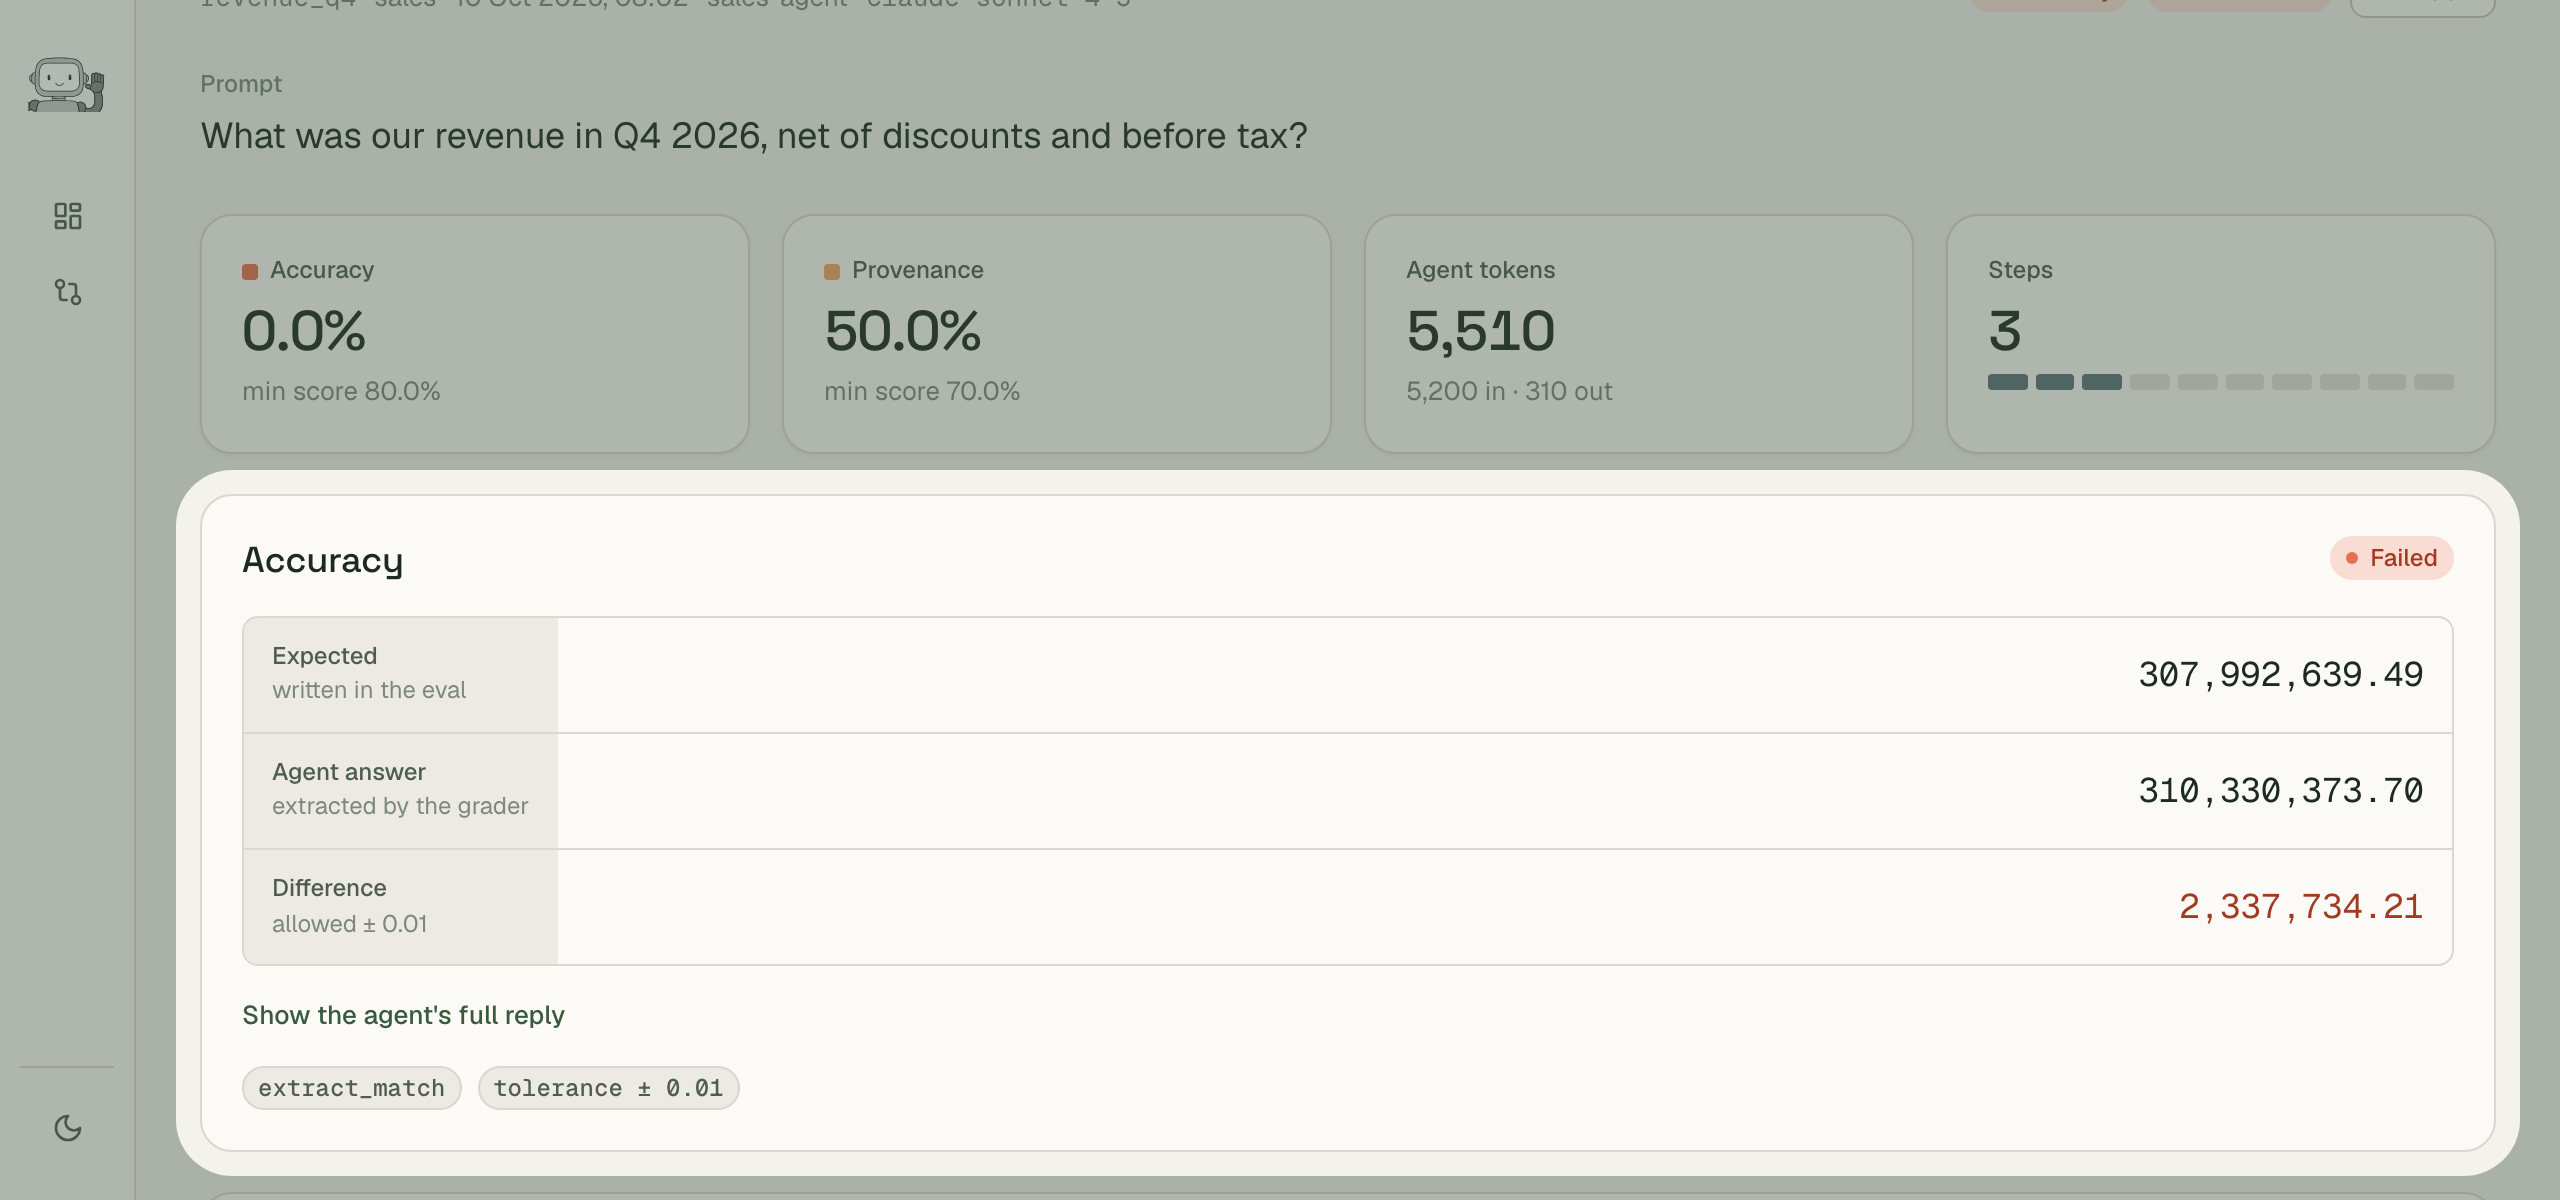
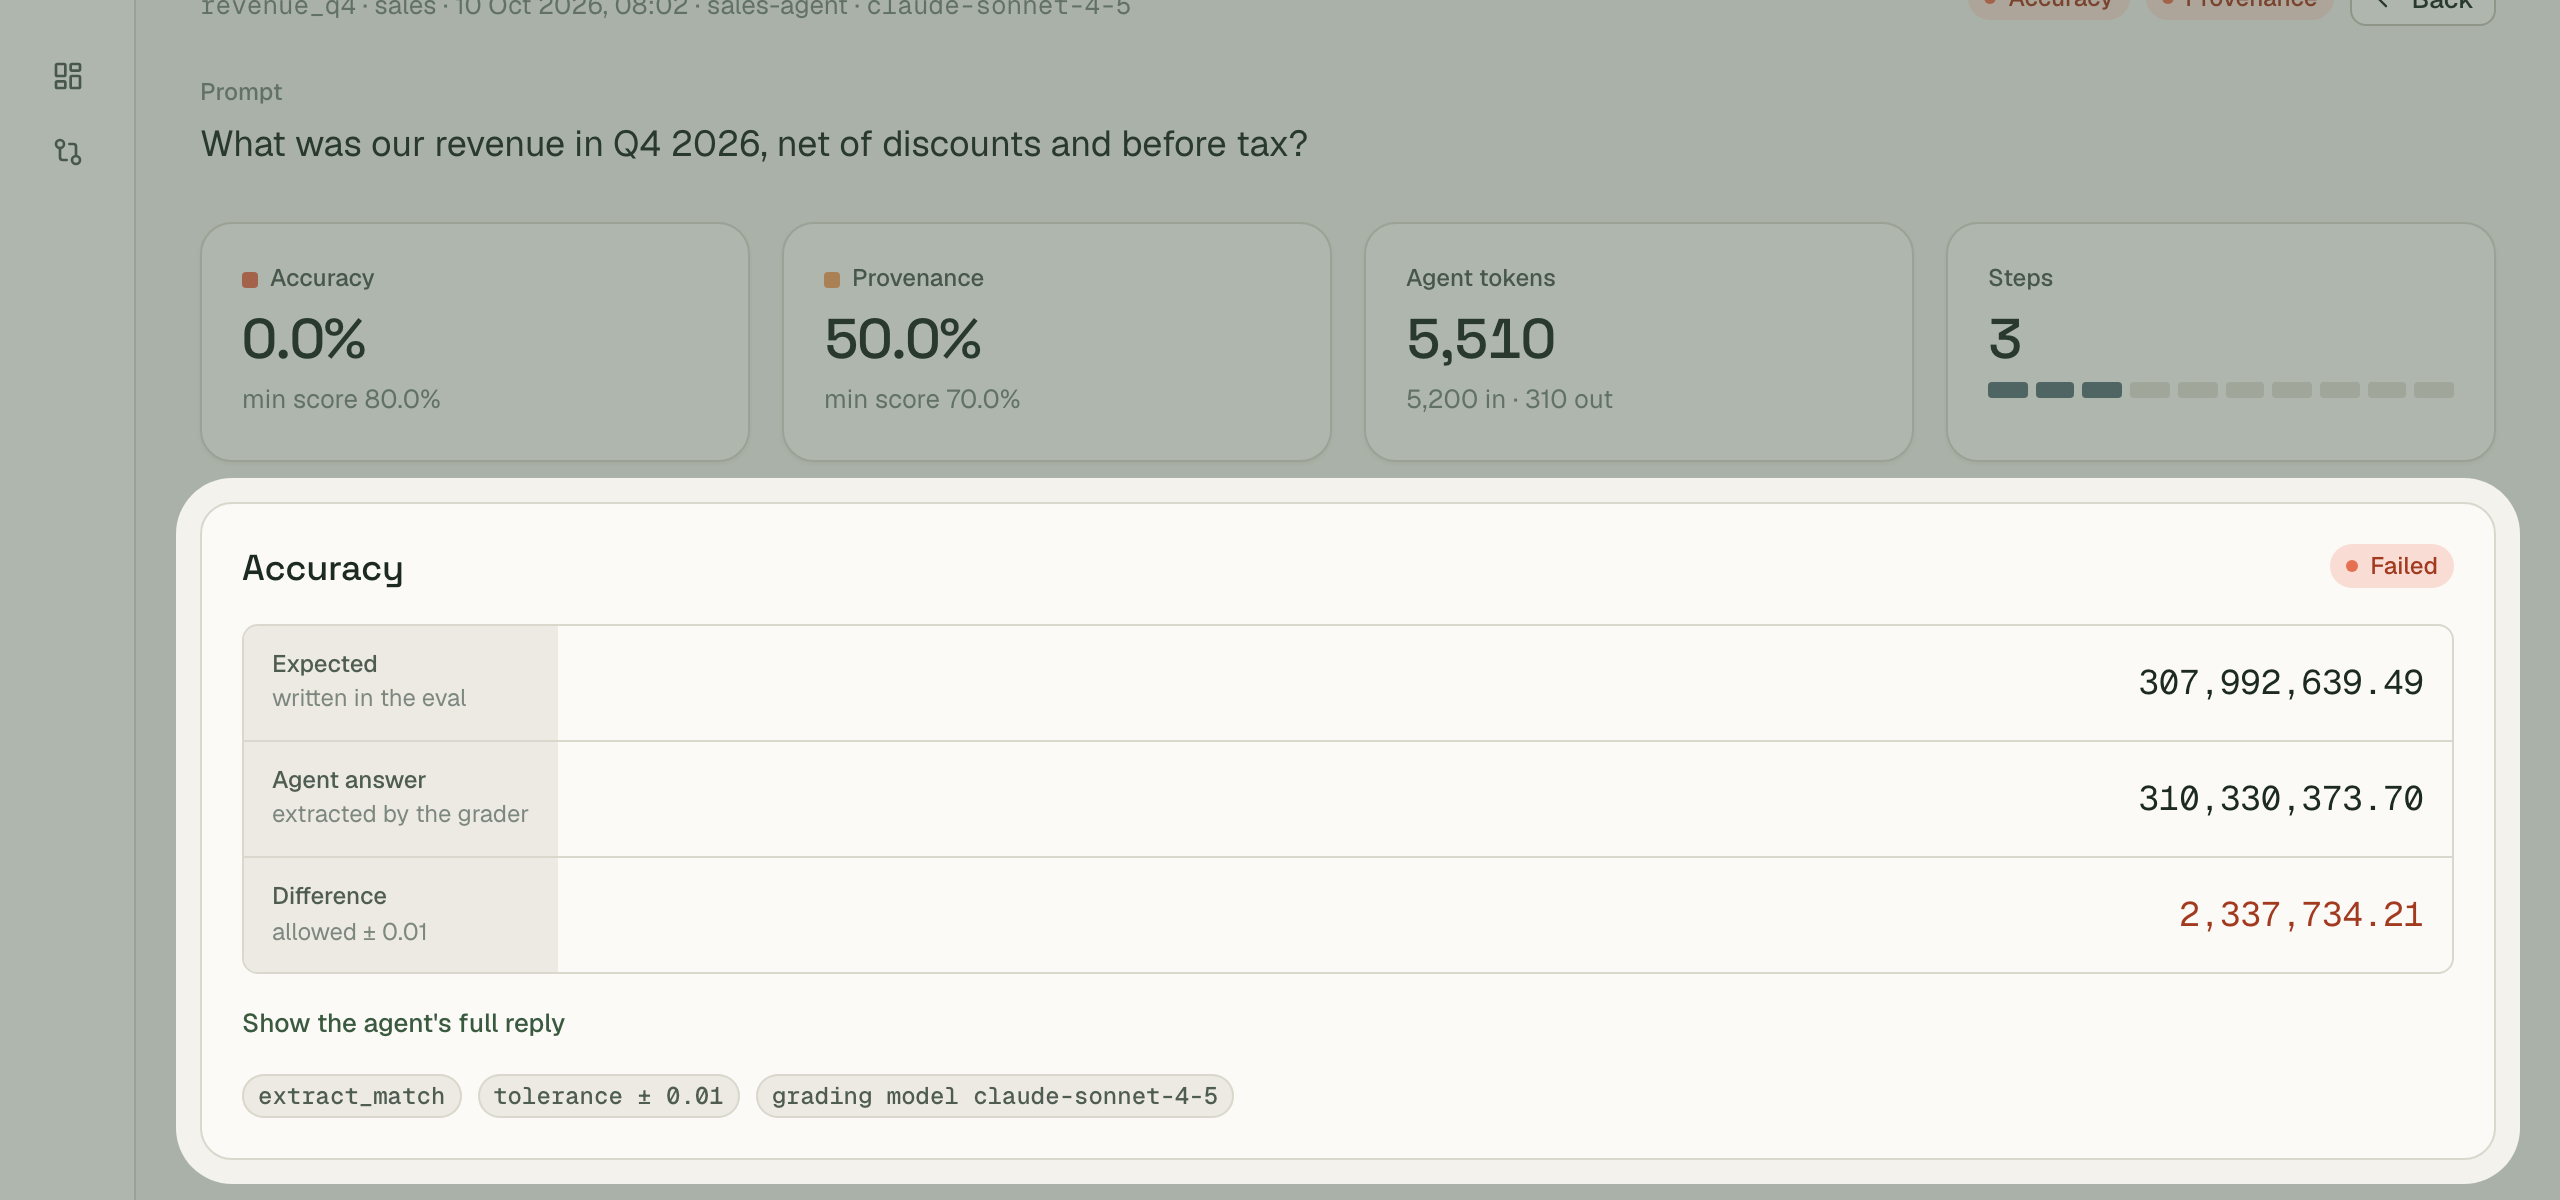
Landing page: retake the Define screenshots with the grading model chip
shots.py now crops them to the 1280x600 frame the page shows them in, keeping
the highlighted card in view.

diff --git a/site/scripts/report-screenshots/shots.py b/site/scripts/report-screenshots/shots.py
@@ -111,6 +111,13 @@ def define(c):
             pg.evaluate(f"(()=>{{const s=({find})();window.scrollTo(0,s.getBoundingClientRect().top+scrollY-{top})}})()")
         pg.mouse.move(1270, 750); pg.wait_for_timeout(300)
         pg.screenshot(path=D + f'define-{name}.png')
+        # The page frames these at 1280x600 (like the YAML panel next to them): crop to that,
+        # moving the window down just enough to keep the whole highlighted card in view.
+        bottom = pg.evaluate(f"(()=>({find})().getBoundingClientRect().bottom)()")
+        top = max(0, min(760 - 600, round(bottom + 20 - 600)))
+        img = Image.open(D + f'define-{name}.png')
+        k = img.width / 1280
+        img.crop((0, int(top * k), img.width, int((top + 600) * k))).save(D + f'define-{name}.png')
     pg.close()
 
 
